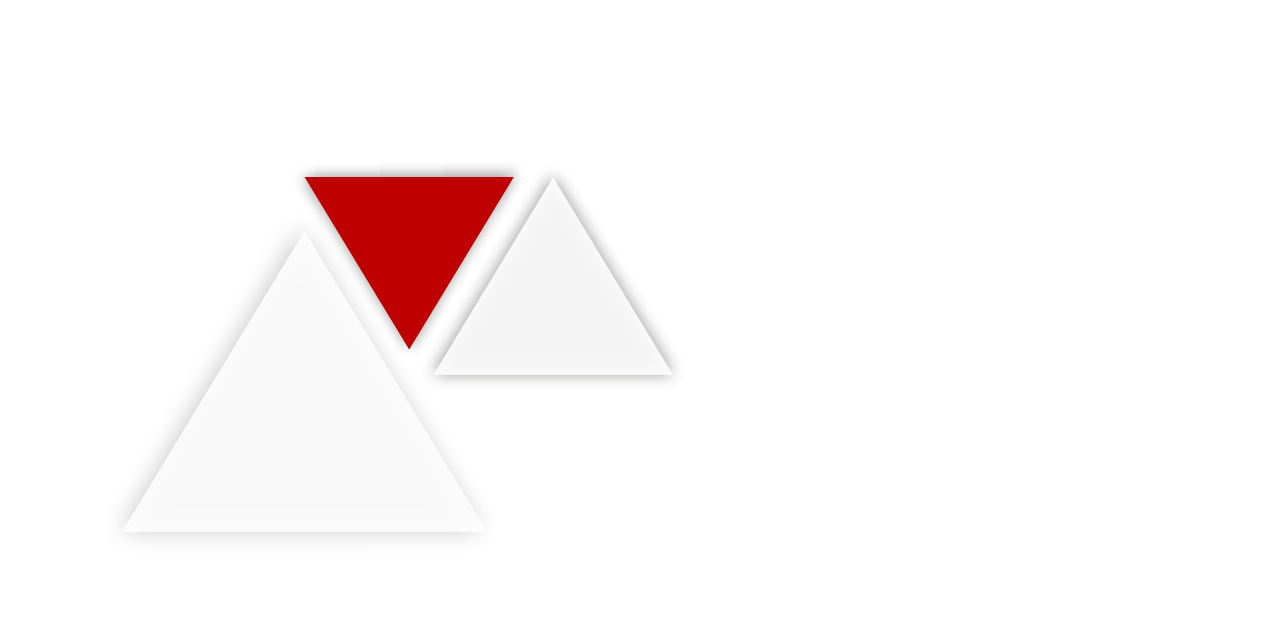
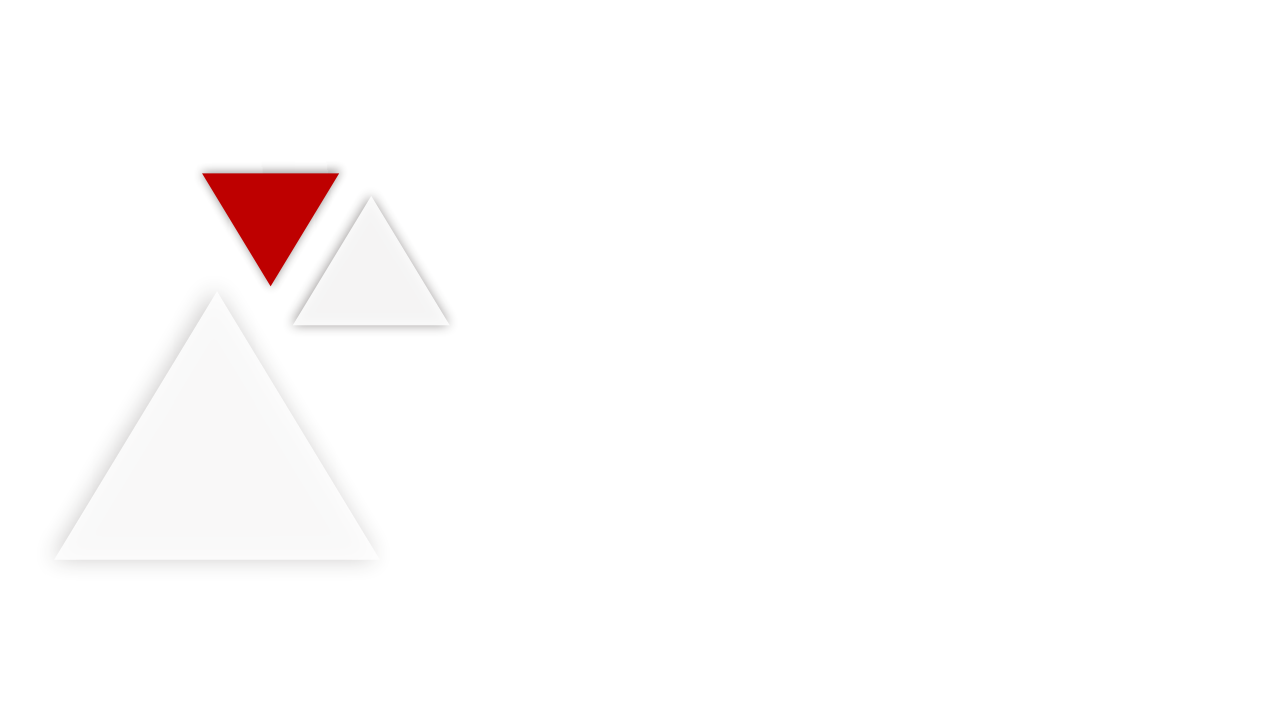
DesktopV5rev1

diff --git a/src/component/content/FirstContent.jsx b/src/component/content/FirstContent.jsx
@@ -14,10 +14,10 @@ const FirstContent = () => {
         <Carousel controls={false} indicators={true} fade>
           <Carousel.Item className="carousel-item">
             <Row sm={8} className="row-carousel d-flex justify-content-center justify-content-md-end align-items-center">
-              <Col sm={8} className="d-flex justify-content-center justify-content-md-end">
+              <Col sm={8} className="d-flex justify-content-center justify-content-md-center">
                 <img src={HPElite} alt="slide" />
               </Col>
-              <Col sm={8} className="caption px-3 pt-3">
+              <Col sm={8} className="caption pt-3">
                 <h2 className="text-uppercase fs-3">Udah muter muter ujungnya ke Armada</h2>
                 <p className="desc">Armadacom adalah Toko komputer terlengkap di Wonosobo, menyediakan berbagai perangkat komputer dan perangkat jaringan</p>
               </Col>
@@ -25,7 +25,7 @@ const FirstContent = () => {
             <Row sm={8} className="justify-content-center">
               <Col className="text-center">
                 <Button
-                  className="mt-2 w-button"
+                  className="mt-1 w-button"
                   variant="light"
                   // href="https://api.whatsapp.com/send/?phone=6282322006005&text=Hallo+Admin+Service+%2AArmada+Computer%2C%2A++&type=phone_number&app_absent=0"
                   href="#about"
@@ -35,7 +35,7 @@ const FirstContent = () => {
               </Col>
             </Row>
           </Carousel.Item>
-          <Carousel.Item className="carousel-item">
+          {/* <Carousel.Item className="carousel-item">
             <Row className="row-carousel d-flex justify-content-center justify-content-md-end align-items-center">
               <Col sm={8} className="d-flex justify-content-center justify-content-md-end">
                 <img src={CPUBlack} alt="slide" />
@@ -103,7 +103,7 @@ const FirstContent = () => {
                 </Button>
               </Col>
             </Row>
-          </Carousel.Item>
+          </Carousel.Item> */}
         </Carousel>
       </Container>
     </>

diff --git a/src/component/header/NavbarTest.css b/src/component/header/NavbarTest.css
@@ -66,9 +66,6 @@
   font-weight: 500;
   transition: all 200ms linear;
 }
-.nav-item.active .nav-link {
-  color: #777 !important;
-}
 .nav-link {
   position: relative;
   padding: 5px 0 !important;
@@ -88,9 +85,6 @@
 .nav-item:hover:after {
   bottom: 0;
   opacity: 1;
-}
-.nav-item.active:hover:after {
-  opacity: 0;
 }
 .nav-item {
   position: relative;
@@ -172,6 +166,11 @@
   margin-left: 1.5rem !important;
 }
 
+.nav-link.active {
+  color: #ffffff80 !important;
+  pointer-events: none;
+}
+
 .btn-blue {
   color: #2e64aa !important;
   font-weight: 600;
@@ -240,11 +239,6 @@
   .nav-link {
     letter-spacing: 1px;
     color: #555 !important;
-  }
-
-  .nav-link.active,
-  .nav-link.show {
-    color: #555;
   }
 
   .nav-link:focus,
@@ -324,7 +318,4 @@
   display: block;
   filter: brightness(10%);
   transition: all 250ms linear;
-}
-body.dark .logo img {
-  filter: brightness(100%);
 }

diff --git a/src/component/content/content.css b/src/component/content/content.css
@@ -275,17 +275,19 @@
   .slideshow {
     margin-top: -1rem;
     background-image: url(./../../assets/img/bg-armadacom.png);
+    background-position-x: center;
+    background-repeat: no-repeat;
   }
 
   .carousel {
-    height: 92vh;
+    height: 94vh;
     justify-content: center;
     padding-top: 2rem;
   }
 
   .carousel img {
     margin-right: 10rem;
-    width: 70vh;
+    width: 75vh;
     height: auto;
   }
 
@@ -294,7 +296,7 @@
     width: 50vw;
     /* padding: 2rem 2rem 2rem 2rem !important; */
     margin-top: 0 !important;
-    margin-right: 10rem;
+    margin-right: 11rem;
     padding-top: 0;
     /* box-shadow: 0px 0px 80px 0px rgba(0, 0, 0, 0.251); */
   }
